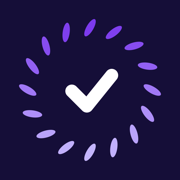
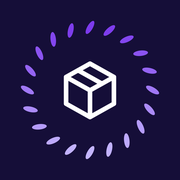
feat(marca): nuevo icono de InovaTrack en toda la PWA
Se sustituyen los iconos de public/ por el arte nuevo (caja 3D blanca sobre
fondo #150E38 con el anillo de guiones morados), generados todos desde el
master de 1024 en un solo reescalado LANCZOS.

Dos de ellos no son un reescalado directo, porque si no se ven mal en el
teléfono:

- apple-touch-icon (180): iOS rellena de negro cualquier transparencia, así
  que el fondo va a sangre y el PNG se guarda sin canal alfa. iOS le pone
  encima su propia máscara redondeada.
- icon-512-maskable: Android lo recorta con la máscara del sistema y sólo
  garantiza el círculo central del 80%. A tamaño completo el anillo de
  guiones queda a ras de esa zona segura, así que el arte se reduce al 85%
  sobre fondo a sangre.

El resto (favicon, icon-192, icon-512) conserva el alfa y las esquinas
redondeadas del arte. El logo del login usa icon-192: se baja su
border-radius de 18px a 15px para que coincida con el radio que la imagen ya
trae dibujada y no le recorte las esquinas.

Se versiona InovaTrack_Logo/ como fuente del arte, con un README que explica
la derivación para que regenerarlos "a lo simple" no rompa los dos casos
especiales. Sus carpetas iOS/ y Android/ son para un envoltorio nativo y hoy
la PWA no las usa.

diff --git a/src/pages/LoginPage.vue b/src/pages/LoginPage.vue
@@ -175,7 +175,9 @@ onUnmounted(() => clearInterval(cronometro));
   padding: 30px 24px 26px;
   text-align: center;
 }
-.login-logo { width: 68px; height: 68px; border-radius: 18px; margin-bottom: 14px; }
+/* 15px ≈ el 22% de 68: el mismo radio que el icono ya trae dibujado, para no
+   recortarle las esquinas al arte. */
+.login-logo { width: 68px; height: 68px; border-radius: 15px; margin-bottom: 14px; }
 .login-titulo { margin: 0; font-size: 22px; font-weight: 800; letter-spacing: -0.02em; }
 .login-sub { margin: 4px 0 24px; font-size: 13px; opacity: 0.6; }
 

diff --git a/InovaTrack_Logo/README.md b/InovaTrack_Logo/README.md
@@ -1,0 +1,36 @@
+# Arte del icono de InovaTrack
+
+Master del icono. `inovatrack_icon.svg` es la fuente (fondo `#150E38`, anillo de
+guiones morados y la caja en blanco); `inovatrack_icon_1024.png` es su
+exportación a 1024, y de ahí salen todos los iconos de `public/`.
+
+Las carpetas `iOS/` y `Android/` son para un envoltorio nativo (Xcode /
+Android Studio). Hoy InovaTrack es una PWA y **no** las usa: los iconos que la
+app sirve de verdad son los de `public/`.
+
+## Cómo se derivan los iconos de `public/`
+
+No basta con reescalar el master a cada tamaño: dos de ellos llevan tratamiento
+aparte, y regenerarlos "a lo simple" rompe cómo se ven en el teléfono.
+
+| Archivo | Tamaño | Tratamiento |
+| --- | --- | --- |
+| `public/favicon.png` | 64 | Reescalado tal cual (conserva alfa y esquinas redondeadas) |
+| `public/icons/icon-192.png` | 192 | Igual — también es el logo del login |
+| `public/icons/icon-512.png` | 512 | Igual |
+| `public/apple-touch-icon.png` | 180 | Fondo a sangre, **sin alfa** |
+| `public/icons/apple-touch-icon.png` | 180 | Igual (index.html apunta a esta) |
+| `public/icons/icon-512-maskable.png` | 512 | Fondo a sangre, sin alfa, arte al **85%** |
+
+Los dos casos especiales:
+
+- **iOS (`apple-touch-icon`)** rellena de negro cualquier transparencia, así que
+  el fondo `#150E38` tiene que llegar a la orilla y el PNG guardarse sin canal
+  alfa. iOS le pone encima su propia máscara redondeada.
+- **Maskable (Android)** se recorta con la máscara del sistema (círculo,
+  cuadrado redondeado…). Sólo está garantizado lo que cae dentro del círculo
+  central del 80%. El arte se reduce al 85% para que el anillo de guiones quepa
+  holgado; a tamaño completo el anillo queda a ras del borde de esa zona segura.
+
+Al reescalar siempre se parte del master de 1024 en un solo paso (LANCZOS), no
+encadenando reducciones.
